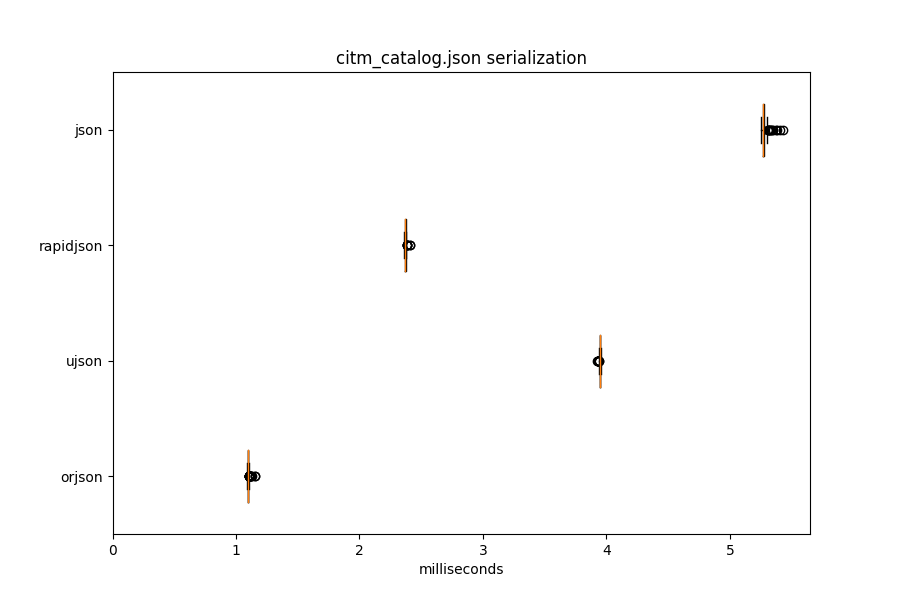
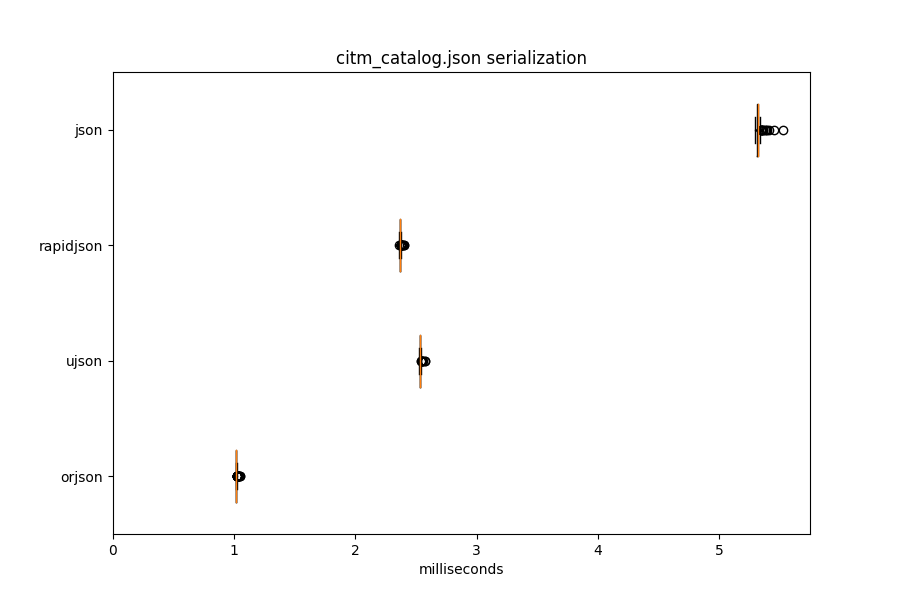
1.1.0

diff --git a/README.md b/README.md
@@ -117,55 +117,55 @@ json. Deserialization performance is worse to about the same as ultrajson.
 
 | Library   |   Median (milliseconds) |   Operations per second |   Relative (latency) |
 |-----------|-------------------------|-------------------------|----------------------|
-| orjson    |                   17.58 |                    64.3 |                 1.04 |
-| ujson     |                   16.85 |                    66.3 |                 1    |
-| rapidjson |                   37.26 |                    28.4 |                 2.21 |
-| json      |                   37.53 |                    27.8 |                 2.23 |
+| orjson    |                    8.72 |                   114.8 |                 1.25 |
+| ujson     |                    6.95 |                   138.4 |                 1    |
+| rapidjson |                   27.75 |                    36   |                 3.99 |
+| json      |                   27.22 |                    36.6 |                 3.92 |
 
 #### canada.json serialization
 
 | Library   |   Median (milliseconds) |   Operations per second |   Relative (latency) |
 |-----------|-------------------------|-------------------------|----------------------|
-| orjson    |                    5.08 |                   195.6 |                 1    |
-| ujson     |                    9.39 |                   106.3 |                 1.85 |
-| rapidjson |                   43.96 |                    22.7 |                 8.65 |
-| json      |                   47.57 |                    21   |                 9.36 |
+| orjson    |                    5.12 |                   195.4 |                 1    |
+| ujson     |                    8.19 |                   122.1 |                 1.6  |
+| rapidjson |                   44.48 |                    22.5 |                 8.69 |
+| json      |                   46.85 |                    21.3 |                 9.16 |
 
 #### citm_catalog.json deserialization
 
 | Library   |   Median (milliseconds) |   Operations per second |   Relative (latency) |
 |-----------|-------------------------|-------------------------|----------------------|
-| orjson    |                    6.75 |                   120.6 |                 1.02 |
-| ujson     |                    6.63 |                   121.5 |                 1    |
-| rapidjson |                    7.99 |                   106.1 |                 1.2  |
-| json      |                    7.99 |                   103.7 |                 1.2  |
+| orjson    |                    6.06 |                   164.9 |                 1.12 |
+| ujson     |                    5.4  |                   185.2 |                 1    |
+| rapidjson |                    7.26 |                   137.6 |                 1.35 |
+| json      |                    7.49 |                   132.2 |                 1.39 |
 
 #### citm_catalog.json serialization
 
 | Library   |   Median (milliseconds) |   Operations per second |   Relative (latency) |
 |-----------|-------------------------|-------------------------|----------------------|
-| orjson    |                    1.12 |                   891   |                 1    |
-| ujson     |                    3.97 |                   251.5 |                 3.55 |
-| rapidjson |                    2.37 |                   420.9 |                 2.12 |
-| json      |                    5.34 |                   187.1 |                 4.78 |
+| orjson    |                    1.02 |                   980.6 |                 1    |
+| ujson     |                    2.53 |                   394.4 |                 2.49 |
+| rapidjson |                    2.37 |                   421.9 |                 2.33 |
+| json      |                    5.32 |                   188   |                 5.22 |
 
 #### twitter.json deserialization
 
 | Library   |   Median (milliseconds) |   Operations per second |   Relative (latency) |
 |-----------|-------------------------|-------------------------|----------------------|
-| orjson    |                    3.38 |                   278.9 |                 1.17 |
-| ujson     |                    2.88 |                   332.8 |                 1    |
-| rapidjson |                    3.35 |                   252.7 |                 1.16 |
-| json      |                    3.3  |                   289.2 |                 1.15 |
+| orjson    |                    2.98 |                   335.3 |                 1.25 |
+| ujson     |                    2.39 |                   419.3 |                 1    |
+| rapidjson |                    3.12 |                   318.8 |                 1.31 |
+| json      |                    3.12 |                   318.8 |                 1.31 |
 
 #### twitter.json serialization
 
 | Library   |   Median (milliseconds) |   Operations per second |   Relative (latency) |
 |-----------|-------------------------|-------------------------|----------------------|
-| orjson    |                    0.59 |                  1699.5 |                 1    |
-| ujson     |                    1.89 |                   529.8 |                 3.22 |
-| rapidjson |                    1.57 |                   637.3 |                 2.68 |
-| json      |                    2.17 |                   458.5 |                 3.71 |
+| orjson    |                    0.55 |                  1815.1 |                 1    |
+| ujson     |                    1.46 |                   684.9 |                 2.65 |
+| rapidjson |                    1.55 |                   643.9 |                 2.82 |
+| json      |                    2.18 |                   458.7 |                 3.95 |
 
 This was measured using orjson 1.0.0 on Python 3.7.1. The above can be
 reproduced using the `pybench` and `graph` scripts.

diff --git a/CHANGELOG.md b/CHANGELOG.md
@@ -1,5 +1,11 @@
 # Changelog
 
+## 1.1.0 - 2018-12-04
+
+### Changed
+
+- Performance improvements.
+
 ## 1.0.1 - 2018-11-26
 
 ### Fixed
